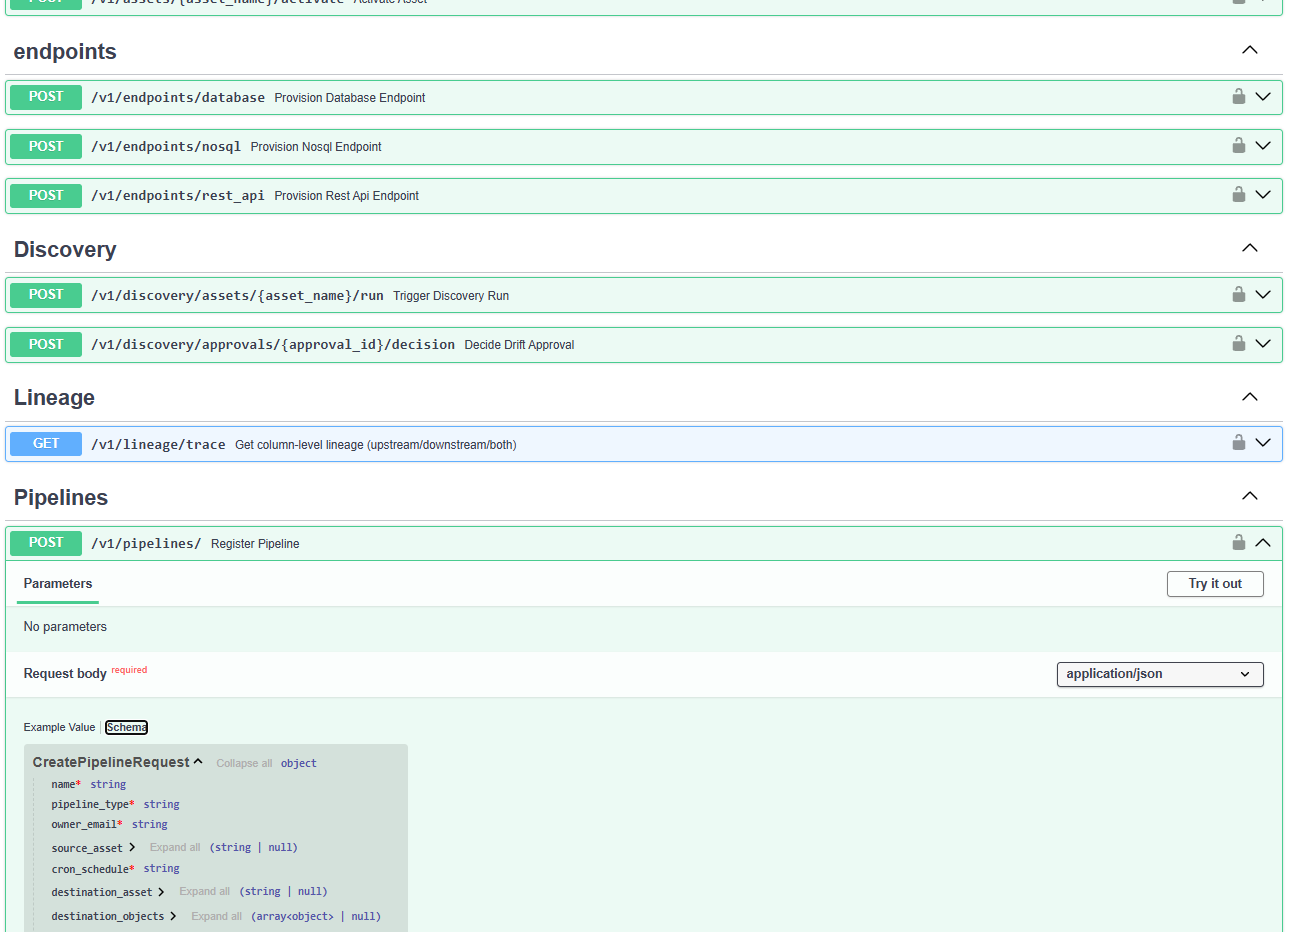
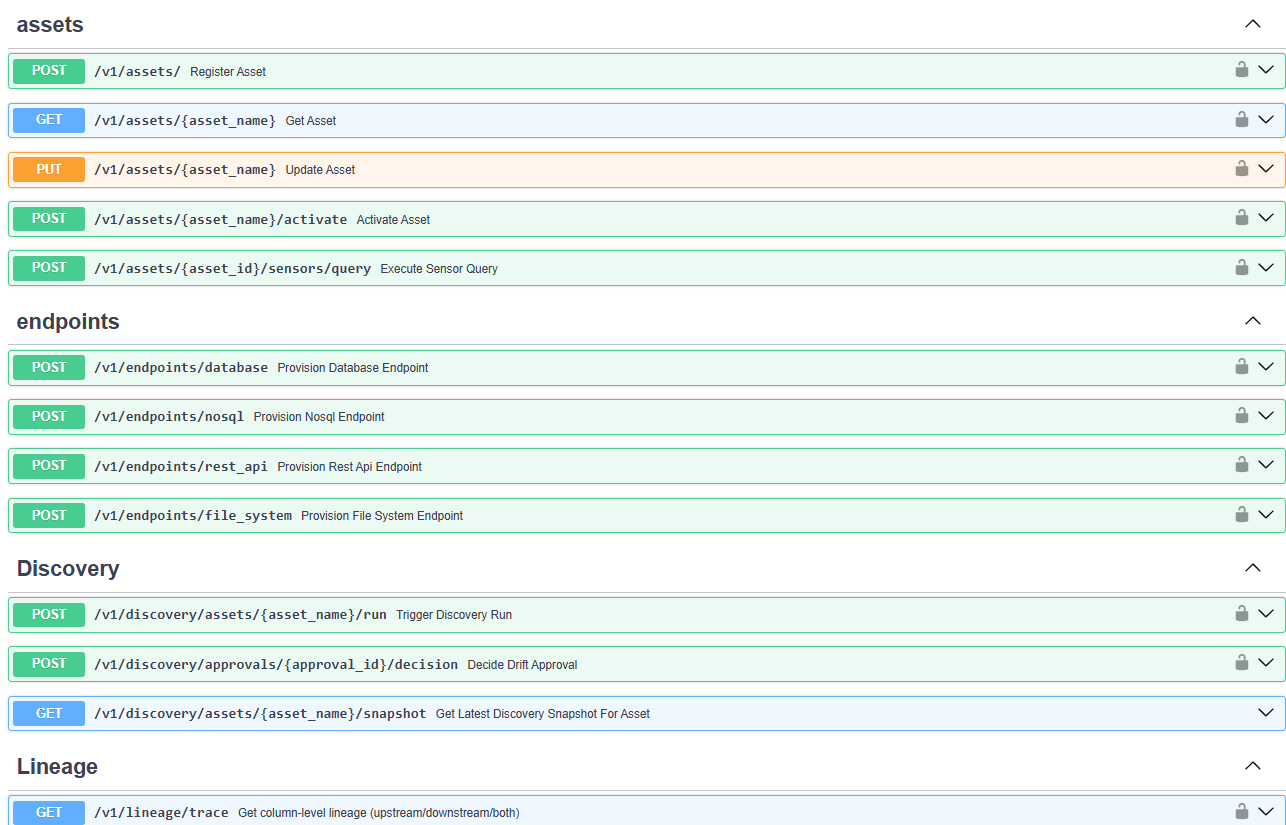
docs: add operational visual gallery and update README

diff --git a/README.md b/README.md
@@ -18,6 +18,7 @@ Todo o software foi concebido e codificado utilizando a metodologia de **Spec-Dr
 
 Uma das principais lições práticas deste projeto é que **o design estrutural, a clareza arquitetural e contratos bem definidos são infinitamente mais determinantes para a sustentabilidade do código do que o custo ou o poder bruto da LLM utilizada**. Neste projeto foi utilizada ativamente a família de modelos **Gemini (do 3.5 Flash ao 3.8 Flash)**, além de assistentes como Claude e ChatGPT para apoio conceitual e validações de julgamento. Mesmo empregando modelos eficientes e de custo acessível para a geração guiada de código, a aderência a boas práticas consolidadas de engenharia de software (*Clean Code*, *Clean Architecture* e *DDD*) permitiu construir uma base modular e de fácil evolução.
 
+
 ---
 
 ### 🔬 Laboratório de Exploração vs. Produção Real (Trade-offs e Próximos Passos)
@@ -72,6 +73,27 @@ Para explorar as especificações conceituais e os aprendizados do laboratório,
 * **[Perfis de Executor do Airflow (docs/operations/executor-profiles.md)](docs/operations/executor-profiles.md):** LocalExecutor vs. CeleryExecutor vs. KubernetesExecutor.
 * **[Guia de Automação de CI/CD (docs/ci_cd_guide.md)](docs/ci_cd_guide.md):** Pipeline de integração contínua (Ruff, Mypy) e compilação de DAGs.
 
+---
+
+### 📸 Evidências Visuais e Execução Operacional
+
+Abaixo estão as evidências visuais das interfaces da plataforma em funcionamento:
+
+#### 1. Orquestração e DAGs no Apache Airflow 3
+Visualização dos pipelines compilados de ingestão, transformação (Dataform/dbt) e exportação no Airflow:
+![Airflow DAGs](docs/images/airflow_dags.png)
+
+#### 2. Linhagem e Reatividade via Airflow 3 Assets
+Visualização do Asset Graph e dependências dirigidas por eventos de dados (`platform://asset/...`):
+![Airflow Assets](docs/images/airflow_asset.png)
+
+#### 3. Catálogo e Documentação OpenAPI (Swagger)
+Endpoints REST para registro de assets, endpoints, discovery automático e disparo de execuções:
+![Swagger Docs](docs/images/swagger_docs.png)
+
+#### 4. Materialização e Cargas no Google BigQuery
+Tabelas criadas e populadas no BigQuery através dos pipelines analíticos:
+![BigQuery Tables](docs/images/bigquery_tables.png)
 ---
 
 ## 🧪 Cobertura de Testes e Validação de Integrações
